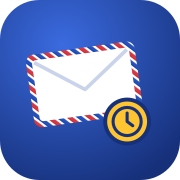
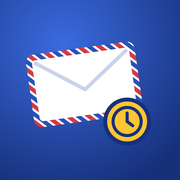
PWA : appli installable (manifeste, service worker, nouvelle icône) sur adresse-temporaire.fr et jetboxmail.com
Claude-Session: https://claude.ai/code/session_01C97iXZyJFizYRUpn3KShMm

diff --git a/index.html b/index.html
@@ -3,7 +3,7 @@
 <title>Mail jetable gratuit : adresse mail temporaire en 1 clic</title><meta name="description" content="Mail jetable gratuit, sans inscription : votre adresse mail jetable est prête en un clic. Recevez codes et liens de validation, puis tout s'efface.">
 <link rel="canonical" href="https://adresse-temporaire.fr/"><link rel="alternate" hreflang="fr" href="https://adresse-temporaire.fr/"><link rel="alternate" hreflang="en" href="https://jetboxmail.com/"><link rel="alternate" hreflang="x-default" href="https://adresse-temporaire.fr/">
 <meta property="og:title" content="Mail jetable gratuit : adresse mail temporaire en 1 clic"><meta property="og:description" content="Mail jetable gratuit, sans inscription : votre adresse mail jetable est prête en un clic. Recevez codes et liens de validation, puis tout s'efface."><meta property="og:url" content="https://adresse-temporaire.fr/"><meta property="og:type" content="website"><meta property="og:image" content="https://adresse-temporaire.fr/og.png"><meta property="og:locale" content="fr_FR"><meta name="twitter:card" content="summary_large_image"><meta name="theme-color" content="#16213b">
-<link rel="icon" href="/favicon.ico" sizes="48x48"><link rel="icon" href="/favicon.svg" type="image/svg+xml"><link rel="apple-touch-icon" href="/apple-touch-icon.png"><link rel="manifest" href="/site.webmanifest">
+<link rel="icon" href="/favicon.ico" sizes="48x48"><link rel="icon" href="/favicon.svg" type="image/svg+xml"><link rel="apple-touch-icon" href="/apple-touch-icon.png"><link rel="manifest" href="/site.webmanifest"><meta name="apple-mobile-web-app-capable" content="yes"><meta name="mobile-web-app-capable" content="yes"><meta name="apple-mobile-web-app-status-bar-style" content="black-translucent"><meta name="apple-mobile-web-app-title" content="Adresse temp"><script>if("serviceWorker"in navigator)addEventListener("load",function(){navigator.serviceWorker.register("/sw.js").catch(function(){})})</script>
 <link rel="preconnect" href="https://fonts.googleapis.com"><link rel="preconnect" href="https://fonts.gstatic.com" crossorigin><link href="https://fonts.googleapis.com/css2?family=Familjen+Grotesk:wght@500;700&family=Public+Sans:wght@400;600&family=JetBrains+Mono:wght@500&display=swap" rel="stylesheet"><style>
 :root{--ink:#16213b;--ink2:#4a5672;--paper:#f6f7fa;--card:#fff;--line:#dde2ec;--red:#c8323a;--blue:#2852b8;--blue-d:#1d3f92;--ok:#1d7a4b}
 *{box-sizing:border-box}html{-webkit-text-size-adjust:100%}

diff --git a/jet/index.html b/jet/index.html
@@ -3,7 +3,7 @@
 <title>Free temporary email address, disposable inbox | Jetbox Mail</title><meta name="description" content="Get a free temporary email address in one click, no sign-up. Receive verification codes and links, then everything is erased after one hour.">
 <link rel="canonical" href="https://jetboxmail.com/"><link rel="alternate" hreflang="fr" href="https://adresse-temporaire.fr/"><link rel="alternate" hreflang="en" href="https://jetboxmail.com/"><link rel="alternate" hreflang="x-default" href="https://adresse-temporaire.fr/">
 <meta property="og:title" content="Free temporary email address, disposable inbox | Jetbox Mail"><meta property="og:description" content="Get a free temporary email address in one click, no sign-up. Receive verification codes and links, then everything is erased after one hour."><meta property="og:url" content="https://jetboxmail.com/"><meta property="og:type" content="website"><meta property="og:image" content="https://adresse-temporaire.fr/og.png"><meta property="og:locale" content="en_US"><meta name="twitter:card" content="summary_large_image"><meta name="theme-color" content="#16213b">
-<link rel="icon" href="/favicon.ico" sizes="48x48"><link rel="icon" href="/favicon.svg" type="image/svg+xml"><link rel="apple-touch-icon" href="/apple-touch-icon.png"><link rel="manifest" href="/site.webmanifest">
+<link rel="icon" href="/favicon.ico" sizes="48x48"><link rel="icon" href="/favicon.svg" type="image/svg+xml"><link rel="apple-touch-icon" href="/apple-touch-icon.png"><link rel="manifest" href="/site.webmanifest"><meta name="apple-mobile-web-app-capable" content="yes"><meta name="mobile-web-app-capable" content="yes"><meta name="apple-mobile-web-app-status-bar-style" content="black-translucent"><meta name="apple-mobile-web-app-title" content="Jetbox Mail"><script>if("serviceWorker"in navigator)addEventListener("load",function(){navigator.serviceWorker.register("/sw.js").catch(function(){})})</script>
 <link rel="preconnect" href="https://fonts.googleapis.com"><link rel="preconnect" href="https://fonts.gstatic.com" crossorigin><link href="https://fonts.googleapis.com/css2?family=Familjen+Grotesk:wght@500;700&family=Public+Sans:wght@400;600&family=JetBrains+Mono:wght@500&display=swap" rel="stylesheet"><style>
 :root{--ink:#16213b;--ink2:#4a5672;--paper:#f6f7fa;--card:#fff;--line:#dde2ec;--red:#c8323a;--blue:#2852b8;--blue-d:#1d3f92;--ok:#1d7a4b}
 *{box-sizing:border-box}html{-webkit-text-size-adjust:100%}

diff --git a/blog/mail-jetable-legal-securite/index.html b/blog/mail-jetable-legal-securite/index.html
@@ -3,7 +3,7 @@
 <title>Le mail jetable est-il légal et sûr ? | Adresse-Temporaire.fr</title><meta name="description" content="Utiliser une adresse mail jetable est-il autorisé en France ? Ce qui est permis, ce qui ne l'est pas, et les règles de sécurité à connaître.">
 <link rel="alternate" type="application/rss+xml" title="Guides du mail jetable" href="/blog/rss.xml"><link rel="canonical" href="https://adresse-temporaire.fr/blog/mail-jetable-legal-securite/">
 <meta property="og:title" content="Le mail jetable est-il légal et sûr ? | Adresse-Temporaire.fr"><meta property="og:description" content="Utiliser une adresse mail jetable est-il autorisé en France ? Ce qui est permis, ce qui ne l'est pas, et les règles de sécurité à connaître."><meta property="og:url" content="https://adresse-temporaire.fr/blog/mail-jetable-legal-securite/"><meta property="og:type" content="article"><meta property="og:image" content="https://adresse-temporaire.fr/og.png"><meta property="og:locale" content="fr_FR"><meta name="twitter:card" content="summary_large_image"><meta name="theme-color" content="#16213b">
-<link rel="icon" href="/favicon.ico" sizes="48x48"><link rel="icon" href="/favicon.svg" type="image/svg+xml"><link rel="apple-touch-icon" href="/apple-touch-icon.png"><link rel="manifest" href="/site.webmanifest">
+<link rel="icon" href="/favicon.ico" sizes="48x48"><link rel="icon" href="/favicon.svg" type="image/svg+xml"><link rel="apple-touch-icon" href="/apple-touch-icon.png"><link rel="manifest" href="/site.webmanifest"><meta name="apple-mobile-web-app-capable" content="yes"><meta name="mobile-web-app-capable" content="yes"><meta name="apple-mobile-web-app-status-bar-style" content="black-translucent"><meta name="apple-mobile-web-app-title" content="Adresse temp"><script>if("serviceWorker"in navigator)addEventListener("load",function(){navigator.serviceWorker.register("/sw.js").catch(function(){})})</script>
 <link rel="preconnect" href="https://fonts.googleapis.com"><link rel="preconnect" href="https://fonts.gstatic.com" crossorigin><link href="https://fonts.googleapis.com/css2?family=Familjen+Grotesk:wght@500;700&family=Public+Sans:wght@400;600&family=JetBrains+Mono:wght@500&display=swap" rel="stylesheet"><style>
 :root{--ink:#16213b;--ink2:#4a5672;--paper:#f6f7fa;--card:#fff;--line:#dde2ec;--red:#c8323a;--blue:#2852b8;--blue-d:#1d3f92;--ok:#1d7a4b}
 *{box-sizing:border-box}html{-webkit-text-size-adjust:100%}

diff --git a/blog/adresse-mail-temporaire-avec-mot-de-passe/index.html b/blog/adresse-mail-temporaire-avec-mot-de-passe/index.html
@@ -3,7 +3,7 @@
 <title>Adresse mail temporaire avec mot de passe : garder sa boîte privée</title><meta name="description" content="Comment garder une adresse mail temporaire privée et la retrouver plus tard, sans que d'autres puissent lire vos messages.">
 <link rel="alternate" type="application/rss+xml" title="Guides du mail jetable" href="/blog/rss.xml"><link rel="canonical" href="https://adresse-temporaire.fr/blog/adresse-mail-temporaire-avec-mot-de-passe/">
 <meta property="og:title" content="Adresse mail temporaire avec mot de passe : garder sa boîte privée"><meta property="og:description" content="Comment garder une adresse mail temporaire privée et la retrouver plus tard, sans que d'autres puissent lire vos messages."><meta property="og:url" content="https://adresse-temporaire.fr/blog/adresse-mail-temporaire-avec-mot-de-passe/"><meta property="og:type" content="article"><meta property="og:image" content="https://adresse-temporaire.fr/og.png"><meta property="og:locale" content="fr_FR"><meta name="twitter:card" content="summary_large_image"><meta name="theme-color" content="#16213b">
-<link rel="icon" href="/favicon.ico" sizes="48x48"><link rel="icon" href="/favicon.svg" type="image/svg+xml"><link rel="apple-touch-icon" href="/apple-touch-icon.png"><link rel="manifest" href="/site.webmanifest">
+<link rel="icon" href="/favicon.ico" sizes="48x48"><link rel="icon" href="/favicon.svg" type="image/svg+xml"><link rel="apple-touch-icon" href="/apple-touch-icon.png"><link rel="manifest" href="/site.webmanifest"><meta name="apple-mobile-web-app-capable" content="yes"><meta name="mobile-web-app-capable" content="yes"><meta name="apple-mobile-web-app-status-bar-style" content="black-translucent"><meta name="apple-mobile-web-app-title" content="Adresse temp"><script>if("serviceWorker"in navigator)addEventListener("load",function(){navigator.serviceWorker.register("/sw.js").catch(function(){})})</script>
 <link rel="preconnect" href="https://fonts.googleapis.com"><link rel="preconnect" href="https://fonts.gstatic.com" crossorigin><link href="https://fonts.googleapis.com/css2?family=Familjen+Grotesk:wght@500;700&family=Public+Sans:wght@400;600&family=JetBrains+Mono:wght@500&display=swap" rel="stylesheet"><style>
 :root{--ink:#16213b;--ink2:#4a5672;--paper:#f6f7fa;--card:#fff;--line:#dde2ec;--red:#c8323a;--blue:#2852b8;--blue-d:#1d3f92;--ok:#1d7a4b}
 *{box-sizing:border-box}html{-webkit-text-size-adjust:100%}

diff --git a/blog/site-refuse-mail-jetable/index.html b/blog/site-refuse-mail-jetable/index.html
@@ -3,7 +3,7 @@
 <title>Pourquoi un site refuse votre mail jetable (et que faire)</title><meta name="description" content="Votre adresse temporaire est refusée à l'inscription ? Les raisons, comment les sites détectent les adresses jetables et les solutions honnêtes.">
 <link rel="alternate" type="application/rss+xml" title="Guides du mail jetable" href="/blog/rss.xml"><link rel="canonical" href="https://adresse-temporaire.fr/blog/site-refuse-mail-jetable/">
 <meta property="og:title" content="Pourquoi un site refuse votre mail jetable (et que faire)"><meta property="og:description" content="Votre adresse temporaire est refusée à l'inscription ? Les raisons, comment les sites détectent les adresses jetables et les solutions honnêtes."><meta property="og:url" content="https://adresse-temporaire.fr/blog/site-refuse-mail-jetable/"><meta property="og:type" content="article"><meta property="og:image" content="https://adresse-temporaire.fr/og.png"><meta property="og:locale" content="fr_FR"><meta name="twitter:card" content="summary_large_image"><meta name="theme-color" content="#16213b">
-<link rel="icon" href="/favicon.ico" sizes="48x48"><link rel="icon" href="/favicon.svg" type="image/svg+xml"><link rel="apple-touch-icon" href="/apple-touch-icon.png"><link rel="manifest" href="/site.webmanifest">
+<link rel="icon" href="/favicon.ico" sizes="48x48"><link rel="icon" href="/favicon.svg" type="image/svg+xml"><link rel="apple-touch-icon" href="/apple-touch-icon.png"><link rel="manifest" href="/site.webmanifest"><meta name="apple-mobile-web-app-capable" content="yes"><meta name="mobile-web-app-capable" content="yes"><meta name="apple-mobile-web-app-status-bar-style" content="black-translucent"><meta name="apple-mobile-web-app-title" content="Adresse temp"><script>if("serviceWorker"in navigator)addEventListener("load",function(){navigator.serviceWorker.register("/sw.js").catch(function(){})})</script>
 <link rel="preconnect" href="https://fonts.googleapis.com"><link rel="preconnect" href="https://fonts.gstatic.com" crossorigin><link href="https://fonts.googleapis.com/css2?family=Familjen+Grotesk:wght@500;700&family=Public+Sans:wght@400;600&family=JetBrains+Mono:wght@500&display=swap" rel="stylesheet"><style>
 :root{--ink:#16213b;--ink2:#4a5672;--paper:#f6f7fa;--card:#fff;--line:#dde2ec;--red:#c8323a;--blue:#2852b8;--blue-d:#1d3f92;--ok:#1d7a4b}
 *{box-sizing:border-box}html{-webkit-text-size-adjust:100%}

diff --git a/mentions-legales.html b/mentions-legales.html
@@ -3,7 +3,7 @@
 <title>Mentions légales et confidentialité | Adresse-Temporaire.fr</title><meta name="description" content="Mentions légales et confidentialité | Adresse-Temporaire.fr">
 <link rel="canonical" href="https://adresse-temporaire.fr/mentions-legales.html"><link rel="alternate" hreflang="fr" href="https://adresse-temporaire.fr/mentions-legales.html"><link rel="alternate" hreflang="en" href="https://adresse-temporaire.fr/en/legal.html"><link rel="alternate" hreflang="x-default" href="https://adresse-temporaire.fr/mentions-legales.html">
 <meta property="og:title" content="Mentions légales et confidentialité | Adresse-Temporaire.fr"><meta property="og:description" content="Mentions légales et confidentialité | Adresse-Temporaire.fr"><meta property="og:url" content="https://adresse-temporaire.fr/mentions-legales.html"><meta property="og:type" content="website"><meta property="og:image" content="https://adresse-temporaire.fr/og.png"><meta property="og:locale" content="fr_FR"><meta name="twitter:card" content="summary_large_image"><meta name="theme-color" content="#16213b">
-<link rel="icon" href="/favicon.ico" sizes="48x48"><link rel="icon" href="/favicon.svg" type="image/svg+xml"><link rel="apple-touch-icon" href="/apple-touch-icon.png"><link rel="manifest" href="/site.webmanifest">
+<link rel="icon" href="/favicon.ico" sizes="48x48"><link rel="icon" href="/favicon.svg" type="image/svg+xml"><link rel="apple-touch-icon" href="/apple-touch-icon.png"><link rel="manifest" href="/site.webmanifest"><meta name="apple-mobile-web-app-capable" content="yes"><meta name="mobile-web-app-capable" content="yes"><meta name="apple-mobile-web-app-status-bar-style" content="black-translucent"><meta name="apple-mobile-web-app-title" content="Adresse temp"><script>if("serviceWorker"in navigator)addEventListener("load",function(){navigator.serviceWorker.register("/sw.js").catch(function(){})})</script>
 <link rel="preconnect" href="https://fonts.googleapis.com"><link rel="preconnect" href="https://fonts.gstatic.com" crossorigin><link href="https://fonts.googleapis.com/css2?family=Familjen+Grotesk:wght@500;700&family=Public+Sans:wght@400;600&family=JetBrains+Mono:wght@500&display=swap" rel="stylesheet"><style>
 :root{--ink:#16213b;--ink2:#4a5672;--paper:#f6f7fa;--card:#fff;--line:#dde2ec;--red:#c8323a;--blue:#2852b8;--blue-d:#1d3f92;--ok:#1d7a4b}
 *{box-sizing:border-box}html{-webkit-text-size-adjust:100%}

diff --git a/blog/mail-jetable-gmail/index.html b/blog/mail-jetable-gmail/index.html
@@ -3,7 +3,7 @@
 <title>Mail jetable avec Gmail : les alias « + » et leurs limites</title><meta name="description" content="Peut-on faire un mail jetable avec Gmail ? Les alias avec le signe + et les points fonctionnent, mais ils ne cachent pas votre adresse. Explications.">
 <link rel="alternate" type="application/rss+xml" title="Guides du mail jetable" href="/blog/rss.xml"><link rel="canonical" href="https://adresse-temporaire.fr/blog/mail-jetable-gmail/">
 <meta property="og:title" content="Mail jetable avec Gmail : les alias « + » et leurs limites"><meta property="og:description" content="Peut-on faire un mail jetable avec Gmail ? Les alias avec le signe + et les points fonctionnent, mais ils ne cachent pas votre adresse. Explications."><meta property="og:url" content="https://adresse-temporaire.fr/blog/mail-jetable-gmail/"><meta property="og:type" content="article"><meta property="og:image" content="https://adresse-temporaire.fr/og.png"><meta property="og:locale" content="fr_FR"><meta name="twitter:card" content="summary_large_image"><meta name="theme-color" content="#16213b">
-<link rel="icon" href="/favicon.ico" sizes="48x48"><link rel="icon" href="/favicon.svg" type="image/svg+xml"><link rel="apple-touch-icon" href="/apple-touch-icon.png"><link rel="manifest" href="/site.webmanifest">
+<link rel="icon" href="/favicon.ico" sizes="48x48"><link rel="icon" href="/favicon.svg" type="image/svg+xml"><link rel="apple-touch-icon" href="/apple-touch-icon.png"><link rel="manifest" href="/site.webmanifest"><meta name="apple-mobile-web-app-capable" content="yes"><meta name="mobile-web-app-capable" content="yes"><meta name="apple-mobile-web-app-status-bar-style" content="black-translucent"><meta name="apple-mobile-web-app-title" content="Adresse temp"><script>if("serviceWorker"in navigator)addEventListener("load",function(){navigator.serviceWorker.register("/sw.js").catch(function(){})})</script>
 <link rel="preconnect" href="https://fonts.googleapis.com"><link rel="preconnect" href="https://fonts.gstatic.com" crossorigin><link href="https://fonts.googleapis.com/css2?family=Familjen+Grotesk:wght@500;700&family=Public+Sans:wght@400;600&family=JetBrains+Mono:wght@500&display=swap" rel="stylesheet"><style>
 :root{--ink:#16213b;--ink2:#4a5672;--paper:#f6f7fa;--card:#fff;--line:#dde2ec;--red:#c8323a;--blue:#2852b8;--blue-d:#1d3f92;--ok:#1d7a4b}
 *{box-sizing:border-box}html{-webkit-text-size-adjust:100%}

diff --git a/blog/index.html b/blog/index.html
@@ -3,7 +3,7 @@
 <title>Guides du mail jetable et de l'adresse mail temporaire</title><meta name="description" content="Nos guides pour bien utiliser un mail jetable : créer une adresse mail temporaire, éviter les spams, alias Gmail, sécurité et réponses aux questions fréquentes.">
 <link rel="alternate" type="application/rss+xml" title="Guides du mail jetable" href="/blog/rss.xml"><link rel="canonical" href="https://adresse-temporaire.fr/blog/">
 <meta property="og:title" content="Guides du mail jetable et de l'adresse mail temporaire"><meta property="og:description" content="Nos guides pour bien utiliser un mail jetable : créer une adresse mail temporaire, éviter les spams, alias Gmail, sécurité et réponses aux questions fréquentes."><meta property="og:url" content="https://adresse-temporaire.fr/blog/"><meta property="og:type" content="website"><meta property="og:image" content="https://adresse-temporaire.fr/og.png"><meta property="og:locale" content="fr_FR"><meta name="twitter:card" content="summary_large_image"><meta name="theme-color" content="#16213b">
-<link rel="icon" href="/favicon.ico" sizes="48x48"><link rel="icon" href="/favicon.svg" type="image/svg+xml"><link rel="apple-touch-icon" href="/apple-touch-icon.png"><link rel="manifest" href="/site.webmanifest">
+<link rel="icon" href="/favicon.ico" sizes="48x48"><link rel="icon" href="/favicon.svg" type="image/svg+xml"><link rel="apple-touch-icon" href="/apple-touch-icon.png"><link rel="manifest" href="/site.webmanifest"><meta name="apple-mobile-web-app-capable" content="yes"><meta name="mobile-web-app-capable" content="yes"><meta name="apple-mobile-web-app-status-bar-style" content="black-translucent"><meta name="apple-mobile-web-app-title" content="Adresse temp"><script>if("serviceWorker"in navigator)addEventListener("load",function(){navigator.serviceWorker.register("/sw.js").catch(function(){})})</script>
 <link rel="preconnect" href="https://fonts.googleapis.com"><link rel="preconnect" href="https://fonts.gstatic.com" crossorigin><link href="https://fonts.googleapis.com/css2?family=Familjen+Grotesk:wght@500;700&family=Public+Sans:wght@400;600&family=JetBrains+Mono:wght@500&display=swap" rel="stylesheet"><style>
 :root{--ink:#16213b;--ink2:#4a5672;--paper:#f6f7fa;--card:#fff;--line:#dde2ec;--red:#c8323a;--blue:#2852b8;--blue-d:#1d3f92;--ok:#1d7a4b}
 *{box-sizing:border-box}html{-webkit-text-size-adjust:100%}

diff --git a/blog/mail-jetable-ou-alias/index.html b/blog/mail-jetable-ou-alias/index.html
@@ -3,7 +3,7 @@
 <title>Mail jetable, alias ou deuxième adresse : que choisir ?</title><meta name="description" content="Comparatif clair entre adresse mail jetable, alias e-mail, adresse masquée et deuxième boîte mail pour protéger votre adresse principale.">
 <link rel="alternate" type="application/rss+xml" title="Guides du mail jetable" href="/blog/rss.xml"><link rel="canonical" href="https://adresse-temporaire.fr/blog/mail-jetable-ou-alias/">
 <meta property="og:title" content="Mail jetable, alias ou deuxième adresse : que choisir ?"><meta property="og:description" content="Comparatif clair entre adresse mail jetable, alias e-mail, adresse masquée et deuxième boîte mail pour protéger votre adresse principale."><meta property="og:url" content="https://adresse-temporaire.fr/blog/mail-jetable-ou-alias/"><meta property="og:type" content="article"><meta property="og:image" content="https://adresse-temporaire.fr/og.png"><meta property="og:locale" content="fr_FR"><meta name="twitter:card" content="summary_large_image"><meta name="theme-color" content="#16213b">
-<link rel="icon" href="/favicon.ico" sizes="48x48"><link rel="icon" href="/favicon.svg" type="image/svg+xml"><link rel="apple-touch-icon" href="/apple-touch-icon.png"><link rel="manifest" href="/site.webmanifest">
+<link rel="icon" href="/favicon.ico" sizes="48x48"><link rel="icon" href="/favicon.svg" type="image/svg+xml"><link rel="apple-touch-icon" href="/apple-touch-icon.png"><link rel="manifest" href="/site.webmanifest"><meta name="apple-mobile-web-app-capable" content="yes"><meta name="mobile-web-app-capable" content="yes"><meta name="apple-mobile-web-app-status-bar-style" content="black-translucent"><meta name="apple-mobile-web-app-title" content="Adresse temp"><script>if("serviceWorker"in navigator)addEventListener("load",function(){navigator.serviceWorker.register("/sw.js").catch(function(){})})</script>
 <link rel="preconnect" href="https://fonts.googleapis.com"><link rel="preconnect" href="https://fonts.gstatic.com" crossorigin><link href="https://fonts.googleapis.com/css2?family=Familjen+Grotesk:wght@500;700&family=Public+Sans:wght@400;600&family=JetBrains+Mono:wght@500&display=swap" rel="stylesheet"><style>
 :root{--ink:#16213b;--ink2:#4a5672;--paper:#f6f7fa;--card:#fff;--line:#dde2ec;--red:#c8323a;--blue:#2852b8;--blue-d:#1d3f92;--ok:#1d7a4b}
 *{box-sizing:border-box}html{-webkit-text-size-adjust:100%}

diff --git a/blog/arreter-spams-apres-inscription/index.html b/blog/arreter-spams-apres-inscription/index.html
@@ -3,7 +3,7 @@
 <title>Comment arrêter les spams après une inscription</title><meta name="description" content="Vous recevez trop de pubs depuis une inscription ? Les bons gestes pour faire le ménage dans votre boîte et éviter que ça recommence.">
 <link rel="alternate" type="application/rss+xml" title="Guides du mail jetable" href="/blog/rss.xml"><link rel="canonical" href="https://adresse-temporaire.fr/blog/arreter-spams-apres-inscription/">
 <meta property="og:title" content="Comment arrêter les spams après une inscription"><meta property="og:description" content="Vous recevez trop de pubs depuis une inscription ? Les bons gestes pour faire le ménage dans votre boîte et éviter que ça recommence."><meta property="og:url" content="https://adresse-temporaire.fr/blog/arreter-spams-apres-inscription/"><meta property="og:type" content="article"><meta property="og:image" content="https://adresse-temporaire.fr/og.png"><meta property="og:locale" content="fr_FR"><meta name="twitter:card" content="summary_large_image"><meta name="theme-color" content="#16213b">
-<link rel="icon" href="/favicon.ico" sizes="48x48"><link rel="icon" href="/favicon.svg" type="image/svg+xml"><link rel="apple-touch-icon" href="/apple-touch-icon.png"><link rel="manifest" href="/site.webmanifest">
+<link rel="icon" href="/favicon.ico" sizes="48x48"><link rel="icon" href="/favicon.svg" type="image/svg+xml"><link rel="apple-touch-icon" href="/apple-touch-icon.png"><link rel="manifest" href="/site.webmanifest"><meta name="apple-mobile-web-app-capable" content="yes"><meta name="mobile-web-app-capable" content="yes"><meta name="apple-mobile-web-app-status-bar-style" content="black-translucent"><meta name="apple-mobile-web-app-title" content="Adresse temp"><script>if("serviceWorker"in navigator)addEventListener("load",function(){navigator.serviceWorker.register("/sw.js").catch(function(){})})</script>
 <link rel="preconnect" href="https://fonts.googleapis.com"><link rel="preconnect" href="https://fonts.gstatic.com" crossorigin><link href="https://fonts.googleapis.com/css2?family=Familjen+Grotesk:wght@500;700&family=Public+Sans:wght@400;600&family=JetBrains+Mono:wght@500&display=swap" rel="stylesheet"><style>
 :root{--ink:#16213b;--ink2:#4a5672;--paper:#f6f7fa;--card:#fff;--line:#dde2ec;--red:#c8323a;--blue:#2852b8;--blue-d:#1d3f92;--ok:#1d7a4b}
 *{box-sizing:border-box}html{-webkit-text-size-adjust:100%}

diff --git a/blog/envoyer-mail-jetable/index.html b/blog/envoyer-mail-jetable/index.html
@@ -3,7 +3,7 @@
 <title>Peut-on envoyer un mail avec une adresse jetable ?</title><meta name="description" content="Envoyer un e-mail depuis une adresse jetable : pourquoi la plupart des services ne le permettent pas, et les alternatives pour écrire anonymement.">
 <link rel="alternate" type="application/rss+xml" title="Guides du mail jetable" href="/blog/rss.xml"><link rel="canonical" href="https://adresse-temporaire.fr/blog/envoyer-mail-jetable/">
 <meta property="og:title" content="Peut-on envoyer un mail avec une adresse jetable ?"><meta property="og:description" content="Envoyer un e-mail depuis une adresse jetable : pourquoi la plupart des services ne le permettent pas, et les alternatives pour écrire anonymement."><meta property="og:url" content="https://adresse-temporaire.fr/blog/envoyer-mail-jetable/"><meta property="og:type" content="article"><meta property="og:image" content="https://adresse-temporaire.fr/og.png"><meta property="og:locale" content="fr_FR"><meta name="twitter:card" content="summary_large_image"><meta name="theme-color" content="#16213b">
-<link rel="icon" href="/favicon.ico" sizes="48x48"><link rel="icon" href="/favicon.svg" type="image/svg+xml"><link rel="apple-touch-icon" href="/apple-touch-icon.png"><link rel="manifest" href="/site.webmanifest">
+<link rel="icon" href="/favicon.ico" sizes="48x48"><link rel="icon" href="/favicon.svg" type="image/svg+xml"><link rel="apple-touch-icon" href="/apple-touch-icon.png"><link rel="manifest" href="/site.webmanifest"><meta name="apple-mobile-web-app-capable" content="yes"><meta name="mobile-web-app-capable" content="yes"><meta name="apple-mobile-web-app-status-bar-style" content="black-translucent"><meta name="apple-mobile-web-app-title" content="Adresse temp"><script>if("serviceWorker"in navigator)addEventListener("load",function(){navigator.serviceWorker.register("/sw.js").catch(function(){})})</script>
 <link rel="preconnect" href="https://fonts.googleapis.com"><link rel="preconnect" href="https://fonts.gstatic.com" crossorigin><link href="https://fonts.googleapis.com/css2?family=Familjen+Grotesk:wght@500;700&family=Public+Sans:wght@400;600&family=JetBrains+Mono:wght@500&display=swap" rel="stylesheet"><style>
 :root{--ink:#16213b;--ink2:#4a5672;--paper:#f6f7fa;--card:#fff;--line:#dde2ec;--red:#c8323a;--blue:#2852b8;--blue-d:#1d3f92;--ok:#1d7a4b}
 *{box-sizing:border-box}html{-webkit-text-size-adjust:100%}

diff --git a/blog/creer-adresse-mail-temporaire/index.html b/blog/creer-adresse-mail-temporaire/index.html
@@ -3,7 +3,7 @@
 <title>Créer une adresse mail temporaire en 10 secondes</title><meta name="description" content="La méthode la plus rapide pour créer une adresse mail temporaire gratuite, sans inscription : étapes, astuces et erreurs à éviter.">
 <link rel="alternate" type="application/rss+xml" title="Guides du mail jetable" href="/blog/rss.xml"><link rel="canonical" href="https://adresse-temporaire.fr/blog/creer-adresse-mail-temporaire/">
 <meta property="og:title" content="Créer une adresse mail temporaire en 10 secondes"><meta property="og:description" content="La méthode la plus rapide pour créer une adresse mail temporaire gratuite, sans inscription : étapes, astuces et erreurs à éviter."><meta property="og:url" content="https://adresse-temporaire.fr/blog/creer-adresse-mail-temporaire/"><meta property="og:type" content="article"><meta property="og:image" content="https://adresse-temporaire.fr/og.png"><meta property="og:locale" content="fr_FR"><meta name="twitter:card" content="summary_large_image"><meta name="theme-color" content="#16213b">
-<link rel="icon" href="/favicon.ico" sizes="48x48"><link rel="icon" href="/favicon.svg" type="image/svg+xml"><link rel="apple-touch-icon" href="/apple-touch-icon.png"><link rel="manifest" href="/site.webmanifest">
+<link rel="icon" href="/favicon.ico" sizes="48x48"><link rel="icon" href="/favicon.svg" type="image/svg+xml"><link rel="apple-touch-icon" href="/apple-touch-icon.png"><link rel="manifest" href="/site.webmanifest"><meta name="apple-mobile-web-app-capable" content="yes"><meta name="mobile-web-app-capable" content="yes"><meta name="apple-mobile-web-app-status-bar-style" content="black-translucent"><meta name="apple-mobile-web-app-title" content="Adresse temp"><script>if("serviceWorker"in navigator)addEventListener("load",function(){navigator.serviceWorker.register("/sw.js").catch(function(){})})</script>
 <link rel="preconnect" href="https://fonts.googleapis.com"><link rel="preconnect" href="https://fonts.gstatic.com" crossorigin><link href="https://fonts.googleapis.com/css2?family=Familjen+Grotesk:wght@500;700&family=Public+Sans:wght@400;600&family=JetBrains+Mono:wght@500&display=swap" rel="stylesheet"><style>
 :root{--ink:#16213b;--ink2:#4a5672;--paper:#f6f7fa;--card:#fff;--line:#dde2ec;--red:#c8323a;--blue:#2852b8;--blue-d:#1d3f92;--ok:#1d7a4b}
 *{box-sizing:border-box}html{-webkit-text-size-adjust:100%}
